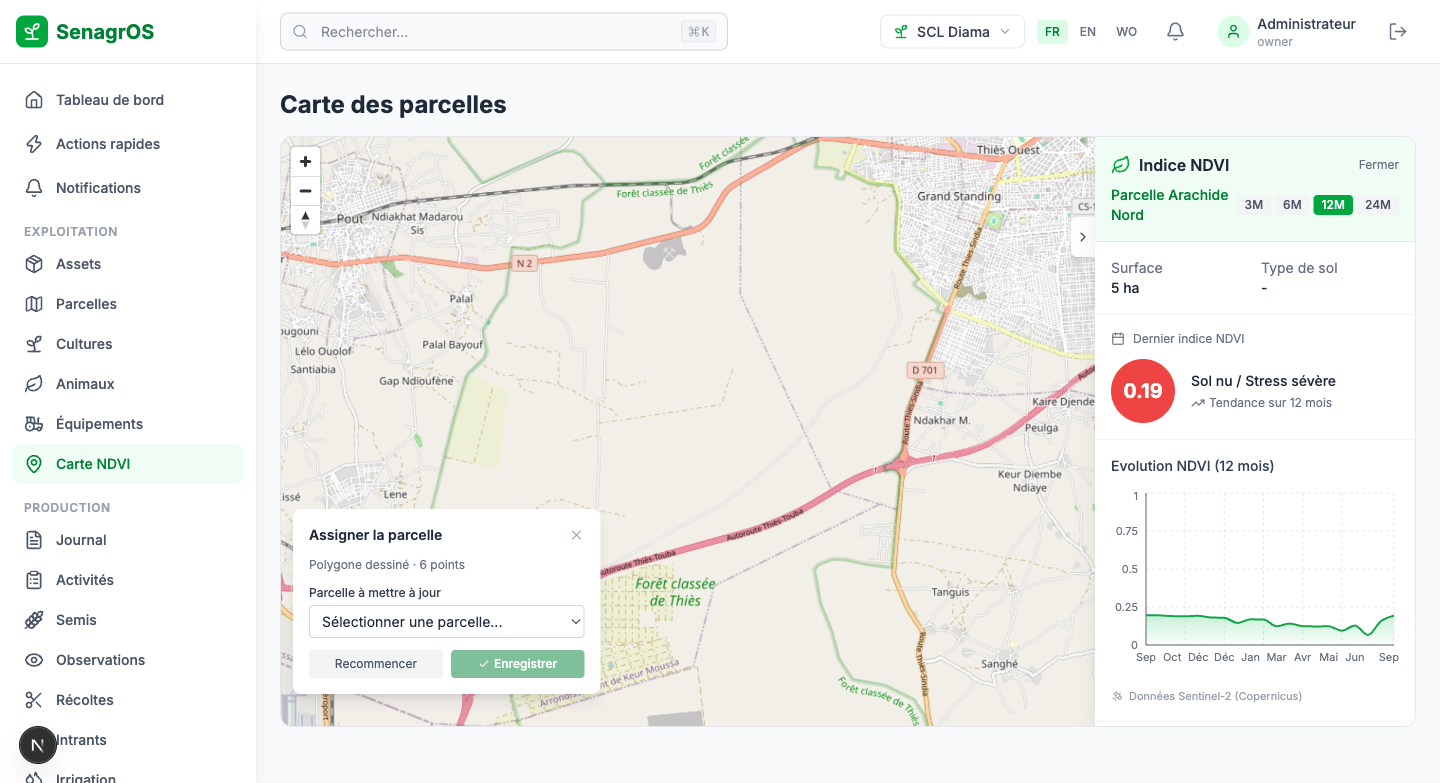
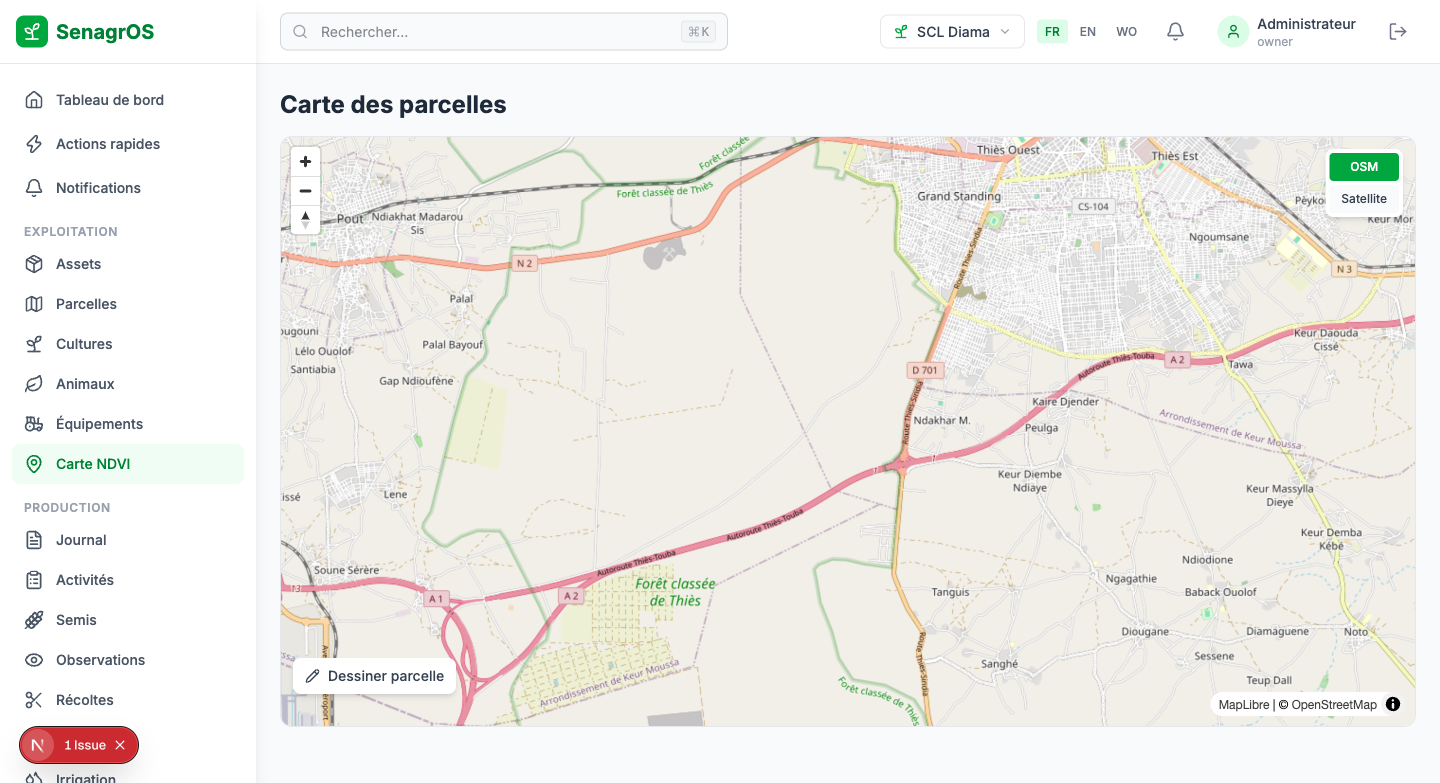
fix: stable map center + no-animate fitBounds to fix infinite re-render
- Wrap `center` in `useMemo` so its array reference is stable across
  renders; previously a new `[lng, lat]` reference on every render caused
  the parcel useEffect (which had `center` in its dep array) to re-run
  constantly and call `map.fitBounds` in a tight loop.
- Add `animate: false` to both `fitBounds` calls so the camera settles
  immediately instead of triggering a fly animation that conflicts with
  the next effect run.
- Replace `flyTo` with `jumpTo` for the lat/lng-only fallback path for
  the same reason (ongoing animation blocked camera from settling).
- These three changes together fix: farm boundary not visible, parcel
  markers appearing at Dakar instead of the farm, and the map never
  zooming to the correct location.

diff --git a/src/components/maps/MapView.tsx b/src/components/maps/MapView.tsx
@@ -1,6 +1,6 @@
 'use client';
 
-import { useEffect, useRef, useState, useCallback } from 'react';
+import { useEffect, useRef, useState, useCallback, useMemo } from 'react';
 import * as maplibregl from 'maplibre-gl';
 import 'maplibre-gl/dist/maplibre-gl.css';
 import { trpc } from '@/lib/trpc';
@@ -70,7 +70,12 @@ export function MapView({ farmLat, farmLng }: MapViewProps) {
   const { data: landParcels } = trpc.asset.listLandParcels.useQuery();
   const saveFarmBoundary = trpc.map.saveFarmBoundary.useMutation();
 
-  const center: [number, number] = farmLng && farmLat ? [farmLng, farmLat] : SENEGAL_CENTER;
+  // Stable reference — prevents parcel useEffect from re-running on every render
+  const center = useMemo<[number, number]>(
+    () => (farmLng && farmLat ? [farmLng, farmLat] : SENEGAL_CENTER),
+    // eslint-disable-next-line react-hooks/exhaustive-deps
+    [farmLat, farmLng],
+  );
 
   // ── Initialize map ────────────────────────────────────────────────────────
   useEffect(() => {
@@ -263,7 +268,7 @@ export function MapView({ farmLat, farmLng }: MapViewProps) {
     }
 
     if (hasBounds) {
-      map.fitBounds(bounds, { padding: 60, maxZoom: 16 });
+      map.fitBounds(bounds, { padding: 60, maxZoom: 16, animate: false });
     } else if (farmBoundary?.geojson) {
       // No parcel geometry — center on farm boundary if available
       try {
@@ -273,12 +278,12 @@ export function MapView({ farmLat, farmLng }: MapViewProps) {
           for (const ring of (geom as GeoJSON.Polygon).coordinates) {
             for (const c of ring) fb.extend([c[0], c[1]]);
           }
-          map.fitBounds(fb, { padding: 80, maxZoom: 15 });
+          map.fitBounds(fb, { padding: 80, maxZoom: 15, animate: false });
         }
       } catch { /* ignore */ }
     } else if (farmBoundary?.latitude && farmBoundary?.longitude) {
       // Center on farm lat/lng
-      map.flyTo({ center: [parseFloat(farmBoundary.longitude), parseFloat(farmBoundary.latitude)], zoom: 14 });
+      map.jumpTo({ center: [parseFloat(farmBoundary.longitude), parseFloat(farmBoundary.latitude)], zoom: 14 });
     }
   }, [parcels, mapReady, center, farmBoundary]);
 
